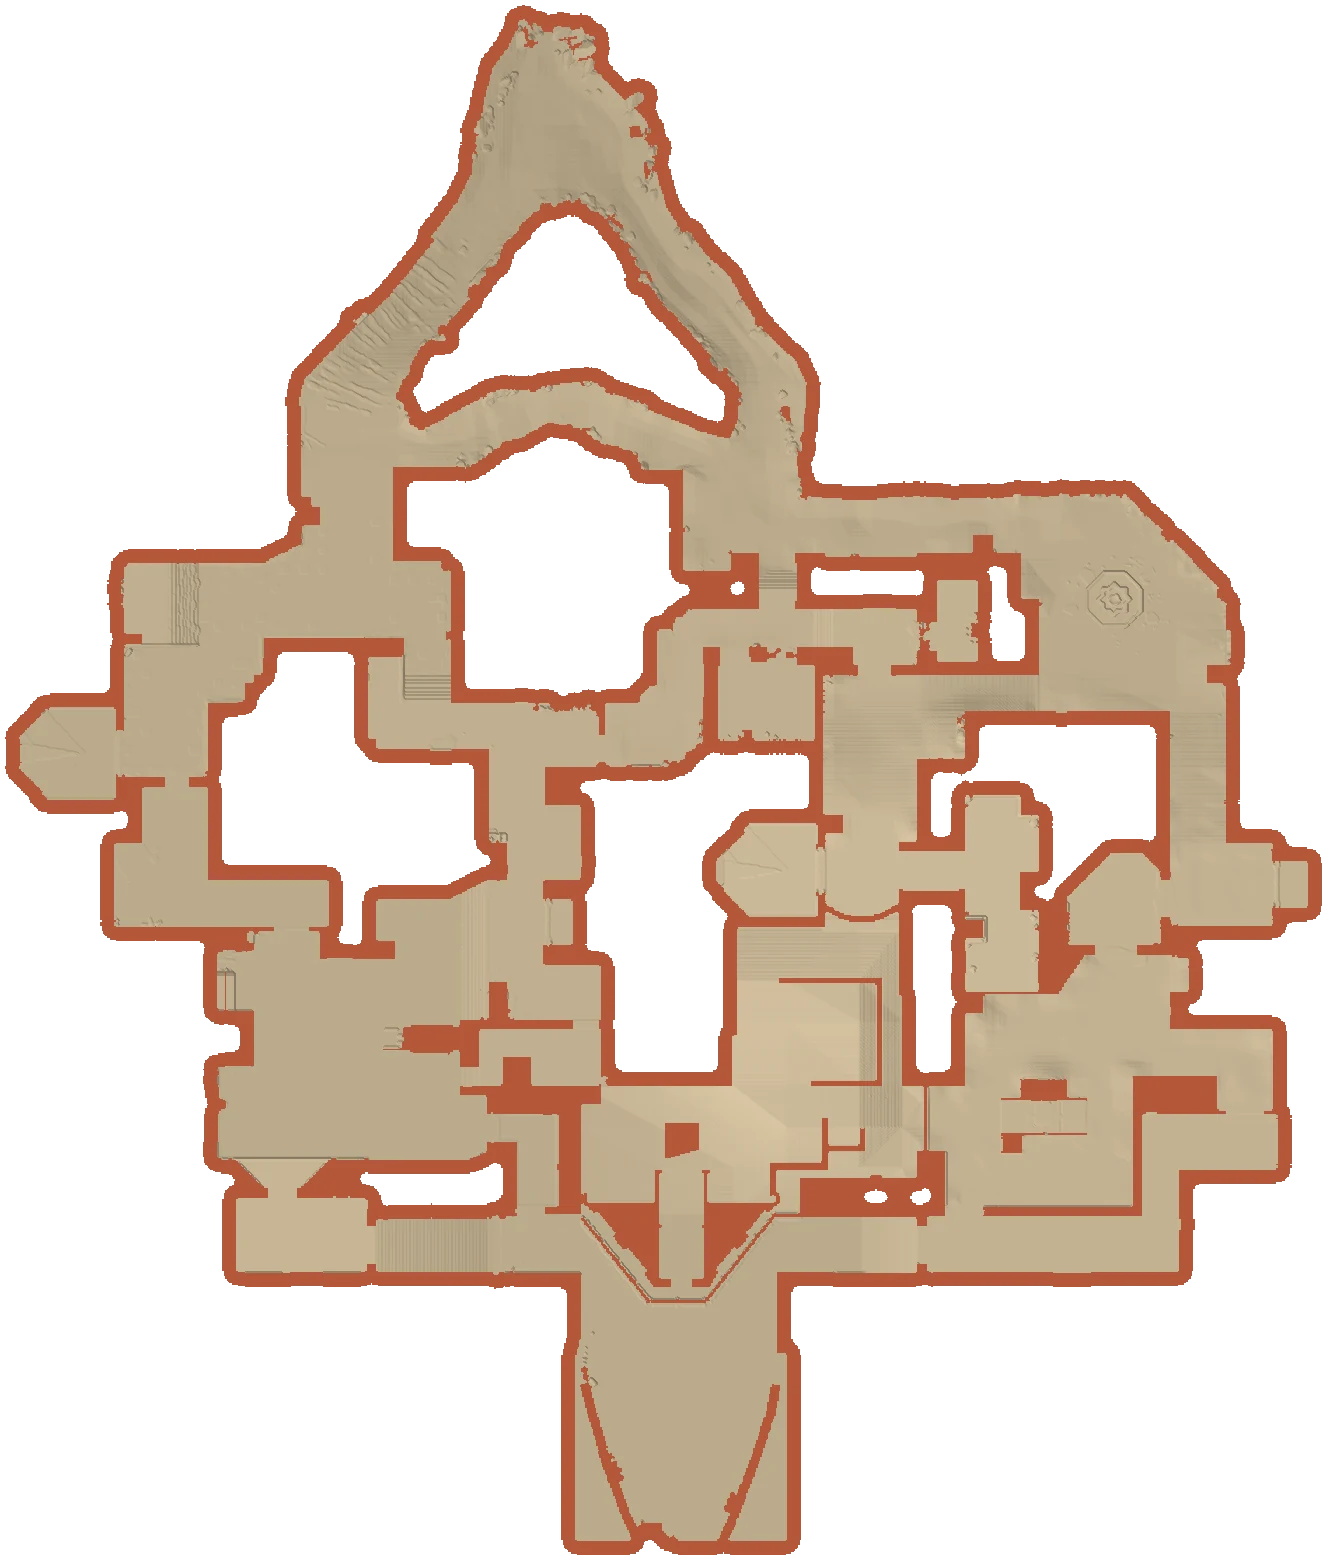
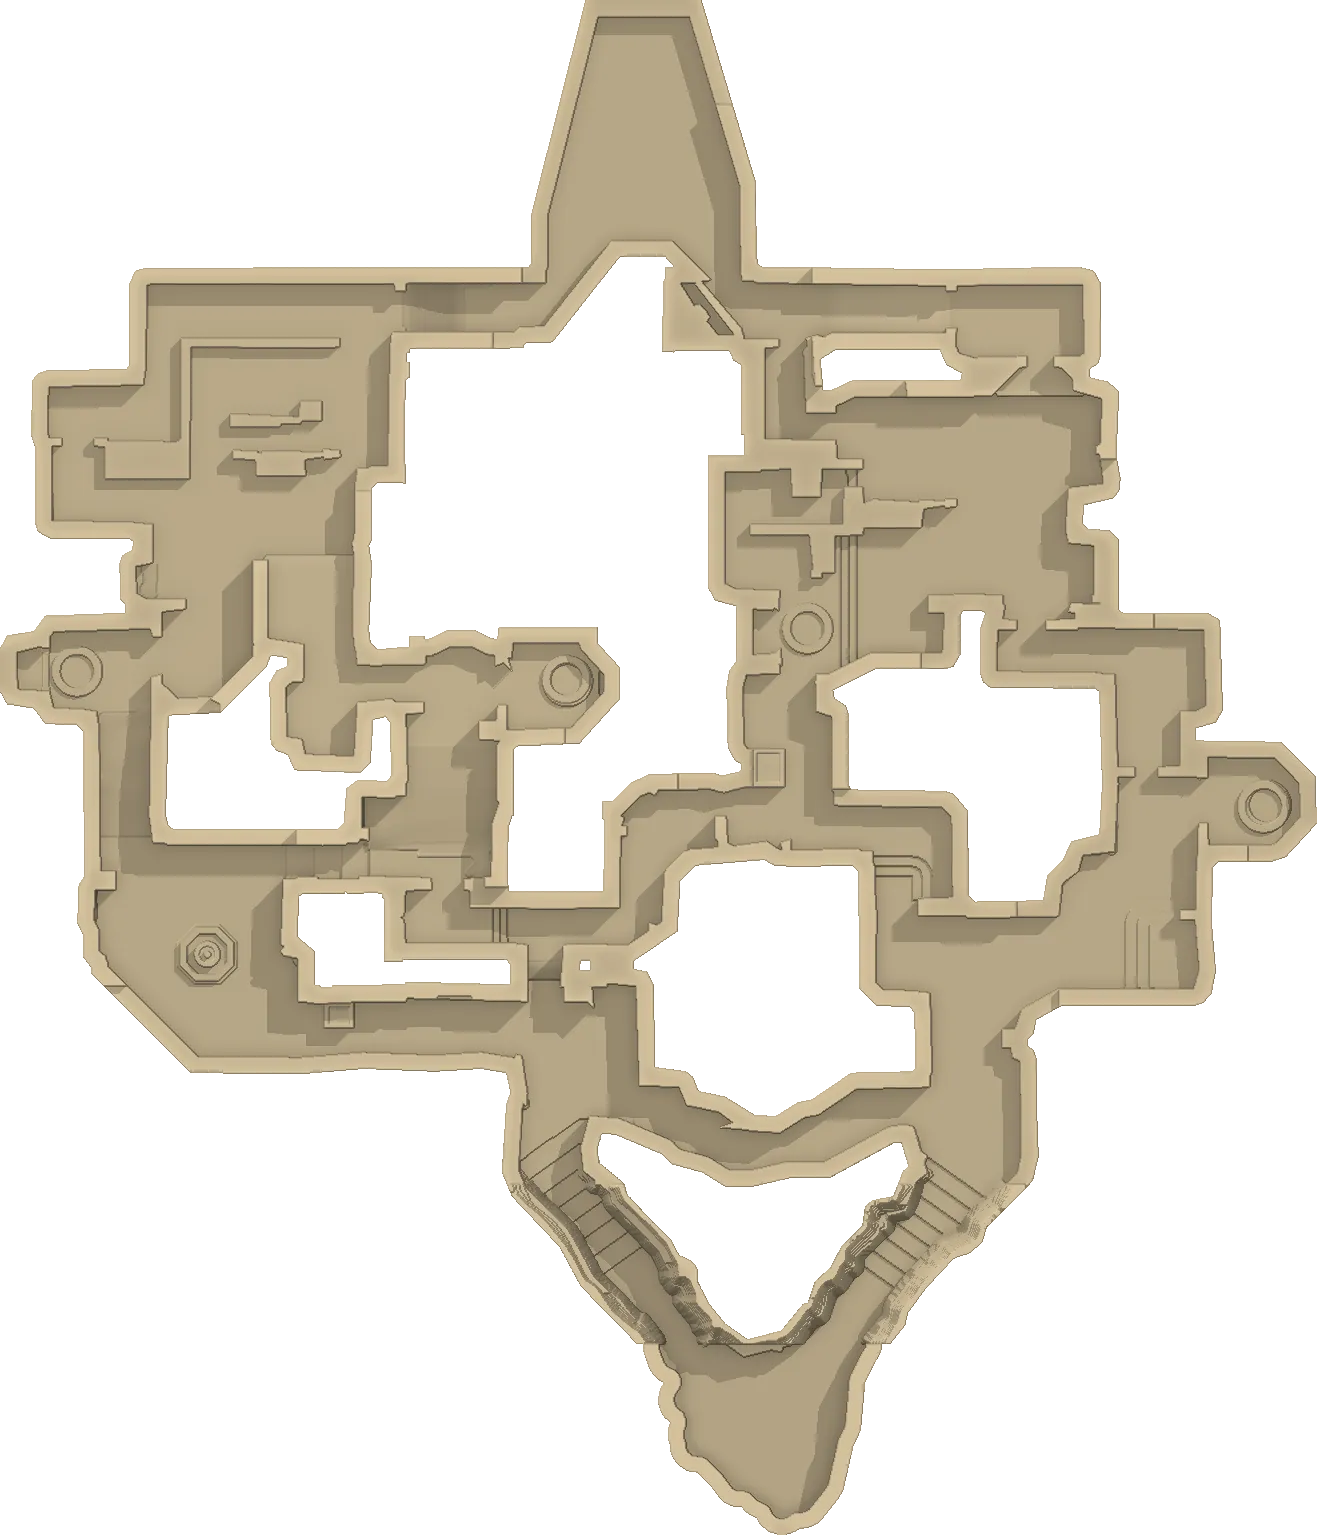
Bind: rotate 180° so attackers are at the bottom – relief and thumbnail from the final model (V52), poster preview, callouts, side labels
Claude-Session: https://claude.ai/code/session_01FzT4sPnAGurHRYYzMdNgB6

diff --git a/bind/index.html b/bind/index.html
@@ -19,8 +19,8 @@
 </div>
 <section class="board wrap" id="board" aria-label="Callouts">
   <figure class="sheet">
-    <div class="map" id="map" style="--ar:1328/1561;--r:0.8507"><svg class="grid" aria-hidden="true" viewBox="-120.0 -120.0 372.8 396.1" preserveAspectRatio="none" style="left:-90.361%;top:-76.874%;width:280.723%;height:253.748%"><defs><pattern id="g5" width="5" height="5" patternUnits="userSpaceOnUse" x="6.40" y="8.05"><path d="M5 0H0V5" class="g-minor"/></pattern><pattern id="g10" width="10" height="10" patternUnits="userSpaceOnUse" x="6.40" y="8.05"><rect width="10" height="10" fill="url(#g5)"/><path d="M10 0H0V10" class="g-major"/></pattern></defs><rect x="-120.0" y="-120.0" width="372.8" height="396.1" fill="url(#g10)"/></svg><img src="../assets/bind-relief.webp" width="1328" height="1561" alt="Top view of the Bind relief"><div class="tip" id="tip" aria-hidden="true"></div></div>
-    <span class="side top" aria-hidden="true">Attacker side</span><span class="side bot" aria-hidden="true">Defender side</span><figcaption class="key"><span><i></i>Numbered as on your poster</span><span class="scale"><b id="bar" data-mm="9.34" data-wmm="132.8"></b>10 m in the game</span><span class="orient">Attackers start at the top, A site on the left, B site on the right. One grid square is 1 cm on your relief.</span></figcaption>
+    <div class="map" id="map" style="--ar:1317/1535;--r:0.8580"><svg class="grid" aria-hidden="true" viewBox="-120.0 -120.0 371.7 393.5" preserveAspectRatio="none" style="left:-91.116%;top:-78.176%;width:282.232%;height:256.352%"><defs><pattern id="g5" width="5" height="5" patternUnits="userSpaceOnUse" x="5.85" y="6.75"><path d="M5 0H0V5" class="g-minor"/></pattern><pattern id="g10" width="10" height="10" patternUnits="userSpaceOnUse" x="5.85" y="6.75"><rect width="10" height="10" fill="url(#g5)"/><path d="M10 0H0V10" class="g-major"/></pattern></defs><rect x="-120.0" y="-120.0" width="371.7" height="393.5" fill="url(#g10)"/></svg><img src="../assets/bind-relief.webp" width="1317" height="1535" alt="Top view of the Bind relief"><div class="tip" id="tip" aria-hidden="true"></div></div>
+    <span class="side top" aria-hidden="true">Defender side</span><span class="side bot" aria-hidden="true">Attacker side</span><figcaption class="key"><span><i></i>Numbered as on your poster</span><span class="scale"><b id="bar" data-mm="9.34" data-wmm="131.7"></b>10 m in the game</span><span class="orient">Attackers start at the bottom, A site on the right, B site on the left. One grid square is 1 cm on your relief.</span></figcaption>
   </figure>
   <div class="panel">
     <div class="modes" role="tablist" aria-label="Mode"><button role="tab" data-mode="explore" aria-selected="true">Explore</button><button role="tab" data-mode="quiz" aria-selected="false">Test yourself</button></div>
@@ -48,7 +48,7 @@
 <section class="more wrap"><h2>All VALORANT maps</h2><div class="tiles"><a class="tile" href="../abyss/"><span class="im"><img src="../assets/abyss-thumb.webp" alt="" loading="lazy"></span><b>Abyss</b><span>Jan Mayen, Norway</span><span>23 callouts</span></a><a class="tile" href="../ascent/"><span class="im"><img src="../assets/ascent-thumb.webp" alt="" loading="lazy"></span><b>Ascent</b><span>Venice, Italy</span><span>68 callouts</span></a><a class="tile" href="./" aria-current="page"><span class="im"><img src="../assets/bind-thumb.webp" alt="" loading="lazy"></span><b>Bind</b><span>Rabat, Morocco</span><span>28 callouts</span></a><a class="tile" href="../breeze/"><span class="im"><img src="../assets/breeze-thumb.webp" alt="" loading="lazy"></span><b>Breeze</b><span>Bermuda Triangle, Atlantic</span><span>23 callouts</span></a><a class="tile" href="../fracture/"><span class="im"><img src="../assets/fracture-thumb.webp" alt="" loading="lazy"></span><b>Fracture</b><span>New Mexico, USA</span><span>22 callouts</span></a><a class="tile" href="../haven/"><span class="im"><img src="../assets/haven-thumb.webp" alt="" loading="lazy"></span><b>Haven</b><span>Thimphu, Bhutan</span><span>29 callouts</span></a><a class="tile" href="../icebox/"><span class="im"><img src="../assets/icebox-thumb.webp" alt="" loading="lazy"></span><b>Icebox</b><span>Bennett Island, Russia</span><span>25 callouts</span></a><a class="tile" href="../lotus/"><span class="im"><img src="../assets/lotus-thumb.webp" alt="" loading="lazy"></span><b>Lotus</b><span>Western Ghats, India</span><span>28 callouts</span></a><a class="tile" href="../pearl/"><span class="im"><img src="../assets/pearl-thumb.webp" alt="" loading="lazy"></span><b>Pearl</b><span>Lisbon, Portugal</span><span>26 callouts</span></a><a class="tile" href="../split/"><span class="im"><img src="../assets/split-thumb.webp" alt="" loading="lazy"></span><b>Split</b><span>Tokyo, Japan</span><span>24 callouts</span></a><a class="tile" href="../sunset/"><span class="im"><img src="../assets/sunset-thumb.webp" alt="" loading="lazy"></span><b>Sunset</b><span>Los Angeles, USA</span><span>17 callouts</span></a></div></section>
 </main>
 <footer><div class="wrap"><span>Mapframes, 3D-printed relief maps. <a href="../frame/">What is in the frame</a></span><span>Fan-made project. VALORANT and all related names are trademarks of Riot Games, Inc. Not endorsed by or affiliated with Riot Games.</span></div></footer>
-<script type="application/json" id="data">{"slug": "bind", "name": "Bind", "groups": {"A": "A side", "B": "B side", "Spawns": "Spawns"}, "callouts": [{"n": "Attacker Spawn", "a": "T Spawn", "d": "Where attackers start. \"T\" stands for Terrorists in CS.", "note": "", "g": "Spawns", "p": 1, "x": 43.91, "y": 3.5, "o": 1, "img": "attacker-spawn", "px": [0.5, 0.5658]}, {"n": "Cave", "a": "", "d": "The rocky cave passage right next to attacker spawn.", "note": "", "g": "Spawns", "p": 2, "x": 42.64, "y": 25.95, "o": 1, "img": "cave", "px": [0.5, 0.5822]}, {"n": "A Lobby", "a": "", "d": "Attackers' entrance hall in front of A Bath and A Short.", "note": "", "g": "A", "p": 3, "x": 22.27, "y": 39.06, "o": 1, "img": "a-lobby", "px": [0.5, 0.5658]}, {"n": "A Bath", "a": "Showers", "d": "A tiled bathhouse that opens onto A site – hence \"Showers\".", "note": "", "g": "A", "p": 4, "x": 13.2, "y": 57.01, "o": 1, "img": "a-bath", "px": [0.5, 0.5658]}, {"n": "A Exit", "a": "TP Exit", "d": "Exit room of the B Long teleporter, right outside A Bath.", "note": "", "g": "A", "p": 5, "x": 3.18, "y": 47.68, "o": 1, "img": "a-exit", "px": [0.5, 0.5658]}, {"n": "A Short", "a": "", "d": "The short path from the market toward A site.", "note": "", "g": "A", "p": 6, "x": 38.84, "y": 50.28, "o": 1, "img": "a-short", "px": [0.5, 0.5822]}, {"n": "A Cubby", "a": "Cubby", "d": "A small nook on A Short.", "note": "", "g": "A", "p": 7, "x": 43.27, "y": 53.97, "o": 1, "img": "a-cubby", "px": [0.5, 0.5822]}, {"n": "A Teleporter", "a": "A Port", "d": "One-way teleporter on A Short – it drops you at B Exit, next to Hookah.", "note": "One-way – you come out at B Exit.", "g": "A", "p": 8, "x": 41.06, "y": 58.99, "o": 1, "img": "a-teleporter", "px": [0.5, 0.5658]}, {"n": "A Lamps", "a": "U-Hall, Lamps", "d": "The U-shaped hall with hanging lamps between A Short and A site.", "note": "", "g": "A", "p": 9, "x": 43.91, "y": 66.27, "o": 1, "img": "a-lamps", "px": [0.5, 0.5823]}, {"n": "A Site", "a": "", "d": "Bomb site A.", "note": "", "g": "A", "p": 10, "x": 25.76, "y": 66.8, "o": 1, "img": "a-site", "px": [0.5, 0.5822]}, {"n": "Truck", "a": "", "d": "The armoured truck parked on A site.", "note": "", "g": "A", "p": 11, "x": 31.83, "y": 66.55, "o": 0, "img": "truck", "px": [0.5, 0.5659]}, {"n": "A Box", "a": "Triple", "d": "The stack of crates on A site.", "note": "", "g": "A", "p": 12, "x": 24.09, "y": 67.75, "o": 0, "img": "a-box", "px": [0.5, 0.5659]}, {"n": "A Tower", "a": "Heaven", "d": "The raised spot above A site, reached from the defender side – \"Heaven\" from CS.", "note": "", "g": "A", "p": 13, "x": 26.5, "y": 79.55, "o": 1, "img": "a-tower", "px": [0.5, 0.5822]}, {"n": "A Link", "a": "", "d": "The passage linking the market to the A side.", "note": "", "g": "A", "p": 14, "x": 51.61, "y": 40.58, "o": 1, "img": "a-link", "px": [0.5, 0.5822]}, {"n": "Market", "a": "Marketplace", "d": "The central market where the paths split toward Hookah and A Short.", "note": "", "g": "B", "p": 15, "x": 68.29, "y": 40.13, "o": 0, "img": "market", "px": [0.5, 0.5822]}, {"n": "B Link", "a": "", "d": "The passage linking the market to the B side.", "note": "", "g": "B", "p": 16, "x": 62.91, "y": 40.58, "o": 1, "img": "b-link", "px": [0.5, 0.5824]}, {"n": "B Short", "a": "", "d": "The short way into B, through Hookah.", "note": "", "g": "B", "p": 17, "x": 65.96, "y": 46.96, "o": 1, "img": "b-short", "px": [0.5, 0.5821]}, {"n": "B Exit", "a": "TP Exit", "d": "Exit room of the A Short teleporter, right next to Hookah.", "note": "", "g": "B", "p": 18, "x": 56.89, "y": 55.94, "o": 1, "img": "b-exit", "px": [0.5, 0.5659]}, {"n": "B Window", "a": "Hookah", "d": "The window from Hookah onto B site. The game files call the room \"Hooka\".", "note": "", "g": "B", "p": 19, "x": 74.83, "y": 55.31, "o": 1, "img": "b-window", "px": [0.5, 0.5822]}, {"n": "B Fountain", "a": "Fountain", "d": "The big fountain on the way down B Long.", "note": "", "g": "B", "p": 20, "x": 82.42, "y": 36.82, "o": 1, "img": "b-fountain", "px": [0.5, 0.5821]}, {"n": "B Long", "a": "", "d": "The long route onto B site.", "note": "", "g": "B", "p": 21, "x": 90.34, "y": 48.4, "o": 1, "img": "b-long", "px": [0.5, 0.5797]}, {"n": "B Teleporter", "a": "B Port", "d": "One-way teleporter on B Long – it takes you to A Exit, outside A Bath.", "note": "One-way – you come out at A Exit.", "g": "B", "p": 22, "x": 95.3, "y": 56.57, "o": 1, "img": "b-teleporter", "px": [0.5, 0.5658]}, {"n": "B Garden", "a": "Garden, Arches", "d": "A small garden with arches just before B site.", "note": "", "g": "B", "p": 23, "x": 83.91, "y": 57.19, "o": 1, "img": "b-garden", "px": [0.5, 0.5822]}, {"n": "B Elbow", "a": "Elbow", "d": "The bent corridor between B site and Garden, toward the defenders.", "note": "", "g": "B", "p": 24, "x": 94.35, "y": 69.58, "o": 1, "img": "b-elbow", "px": [0.5, 0.5822]}, {"n": "B Site", "a": "", "d": "Bomb site B.", "note": "", "g": "B", "p": 25, "x": 78.52, "y": 68.96, "o": 1, "img": "b-site", "px": [0.5, 0.5659]}, {"n": "B Box", "a": "Container", "d": "The container in the middle of B site.", "note": "", "g": "B", "p": 26, "x": 78.61, "y": 71.51, "o": 0, "img": "b-box", "px": [0.5, 0.5659]}, {"n": "B Hall", "a": "Back B", "d": "The hall behind B site, toward defender spawn.", "note": "", "g": "B", "p": 27, "x": 79.26, "y": 80.18, "o": 1, "img": "b-hall", "px": [0.5, 0.5822]}, {"n": "Defender Spawn", "a": "CT Spawn, CT", "d": "Where defenders start. \"CT\" stands for Counter-Terrorists in CS.", "note": "", "g": "Spawns", "p": 28, "x": 51.61, "y": 90.14, "o": 1, "img": "defender-spawn", "px": [0.5, 0.5658]}]}</script>
+<script type="application/json" id="data">{"slug": "bind", "name": "Bind", "groups": {"A": "A side", "B": "B side", "Spawns": "Spawns"}, "callouts": [{"n": "Attacker Spawn", "a": "T Spawn", "d": "Where attackers start. \"T\" stands for Terrorists in CS.", "note": "", "g": "Spawns", "p": 1, "x": 56.1, "y": 97.61, "o": 1, "img": "attacker-spawn", "px": [0.5, 0.5658]}, {"n": "Cave", "a": "", "d": "The rocky cave passage right next to attacker spawn.", "note": "", "g": "Spawns", "p": 2, "x": 57.38, "y": 74.78, "o": 1, "img": "cave", "px": [0.5, 0.5822]}, {"n": "A Lobby", "a": "", "d": "Attackers' entrance hall in front of A Bath and A Short.", "note": "", "g": "A", "p": 3, "x": 77.92, "y": 61.45, "o": 1, "img": "a-lobby", "px": [0.5, 0.5658]}, {"n": "A Bath", "a": "Showers", "d": "A tiled bathhouse that opens onto A site – hence \"Showers\".", "note": "", "g": "A", "p": 4, "x": 87.07, "y": 43.2, "o": 1, "img": "a-bath", "px": [0.5, 0.5658]}, {"n": "A Exit", "a": "TP Exit", "d": "Exit room of the B Long teleporter, right outside A Bath.", "note": "", "g": "A", "p": 5, "x": 97.17, "y": 52.69, "o": 1, "img": "a-exit", "px": [0.5, 0.5658]}, {"n": "A Short", "a": "", "d": "The short path from the market toward A site.", "note": "", "g": "A", "p": 6, "x": 61.22, "y": 50.04, "o": 1, "img": "a-short", "px": [0.5, 0.5822]}, {"n": "A Cubby", "a": "Cubby", "d": "A small nook on A Short.", "note": "", "g": "A", "p": 7, "x": 56.75, "y": 46.29, "o": 1, "img": "a-cubby", "px": [0.5, 0.5822]}, {"n": "A Teleporter", "a": "A Port", "d": "One-way teleporter on A Short – it drops you at B Exit, next to Hookah.", "note": "One-way – you come out at B Exit.", "g": "A", "p": 8, "x": 58.98, "y": 41.18, "o": 1, "img": "a-teleporter", "px": [0.5, 0.5658]}, {"n": "A Lamps", "a": "U-Hall, Lamps", "d": "The U-shaped hall with hanging lamps between A Short and A site.", "note": "", "g": "A", "p": 9, "x": 56.1, "y": 33.78, "o": 1, "img": "a-lamps", "px": [0.5, 0.5823]}, {"n": "A Site", "a": "", "d": "Bomb site A.", "note": "", "g": "A", "p": 10, "x": 74.4, "y": 33.24, "o": 1, "img": "a-site", "px": [0.5, 0.5822]}, {"n": "Truck", "a": "", "d": "The armoured truck parked on A site.", "note": "", "g": "A", "p": 11, "x": 68.28, "y": 33.5, "o": 0, "img": "truck", "px": [0.5, 0.5659]}, {"n": "A Box", "a": "Triple", "d": "The stack of crates on A site.", "note": "", "g": "A", "p": 12, "x": 76.09, "y": 32.28, "o": 0, "img": "a-box", "px": [0.5, 0.5659]}, {"n": "A Tower", "a": "Heaven", "d": "The raised spot above A site, reached from the defender side – \"Heaven\" from CS.", "note": "", "g": "A", "p": 13, "x": 73.66, "y": 20.28, "o": 1, "img": "a-tower", "px": [0.5, 0.5822]}, {"n": "A Link", "a": "", "d": "The passage linking the market to the A side.", "note": "", "g": "A", "p": 14, "x": 48.34, "y": 59.91, "o": 1, "img": "a-link", "px": [0.5, 0.5822]}, {"n": "Market", "a": "Marketplace", "d": "The central market where the paths split toward Hookah and A Short.", "note": "", "g": "B", "p": 15, "x": 31.52, "y": 60.36, "o": 0, "img": "market", "px": [0.5, 0.5822]}, {"n": "B Link", "a": "", "d": "The passage linking the market to the B side.", "note": "", "g": "B", "p": 16, "x": 36.94, "y": 59.91, "o": 1, "img": "b-link", "px": [0.5, 0.5824]}, {"n": "B Short", "a": "", "d": "The short way into B, through Hookah.", "note": "", "g": "B", "p": 17, "x": 33.87, "y": 53.42, "o": 1, "img": "b-short", "px": [0.5, 0.5821]}, {"n": "B Exit", "a": "TP Exit", "d": "Exit room of the A Short teleporter, right next to Hookah.", "note": "", "g": "B", "p": 18, "x": 43.01, "y": 44.29, "o": 1, "img": "b-exit", "px": [0.5, 0.5659]}, {"n": "B Window", "a": "Hookah", "d": "The window from Hookah onto B site. The game files call the room \"Hooka\".", "note": "", "g": "B", "p": 19, "x": 24.92, "y": 44.93, "o": 1, "img": "b-window", "px": [0.5, 0.5822]}, {"n": "B Fountain", "a": "Fountain", "d": "The big fountain on the way down B Long.", "note": "", "g": "B", "p": 20, "x": 17.27, "y": 63.73, "o": 1, "img": "b-fountain", "px": [0.5, 0.5821]}, {"n": "B Long", "a": "", "d": "The long route onto B site.", "note": "", "g": "B", "p": 21, "x": 9.29, "y": 51.95, "o": 1, "img": "b-long", "px": [0.5, 0.5797]}, {"n": "B Teleporter", "a": "B Port", "d": "One-way teleporter on B Long – it takes you to A Exit, outside A Bath.", "note": "One-way – you come out at A Exit.", "g": "B", "p": 22, "x": 4.28, "y": 43.64, "o": 1, "img": "b-teleporter", "px": [0.5, 0.5658]}, {"n": "B Garden", "a": "Garden, Arches", "d": "A small garden with arches just before B site.", "note": "", "g": "B", "p": 23, "x": 15.77, "y": 43.01, "o": 1, "img": "b-garden", "px": [0.5, 0.5822]}, {"n": "B Elbow", "a": "Elbow", "d": "The bent corridor between B site and Garden, toward the defenders.", "note": "", "g": "B", "p": 24, "x": 5.24, "y": 30.41, "o": 1, "img": "b-elbow", "px": [0.5, 0.5822]}, {"n": "B Site", "a": "", "d": "Bomb site B.", "note": "", "g": "B", "p": 25, "x": 21.2, "y": 31.04, "o": 1, "img": "b-site", "px": [0.5, 0.5659]}, {"n": "B Box", "a": "Container", "d": "The container in the middle of B site.", "note": "", "g": "B", "p": 26, "x": 21.11, "y": 28.45, "o": 0, "img": "b-box", "px": [0.5, 0.5659]}, {"n": "B Hall", "a": "Back B", "d": "The hall behind B site, toward defender spawn.", "note": "", "g": "B", "p": 27, "x": 20.46, "y": 19.63, "o": 1, "img": "b-hall", "px": [0.5, 0.5822]}, {"n": "Defender Spawn", "a": "CT Spawn, CT", "d": "Where defenders start. \"CT\" stands for Counter-Terrorists in CS.", "note": "", "g": "Spawns", "p": 28, "x": 48.34, "y": 9.51, "o": 1, "img": "defender-spawn", "px": [0.5, 0.5658]}]}</script>
 <script src="../assets/map.js"></script>
 </body>
 </html>
